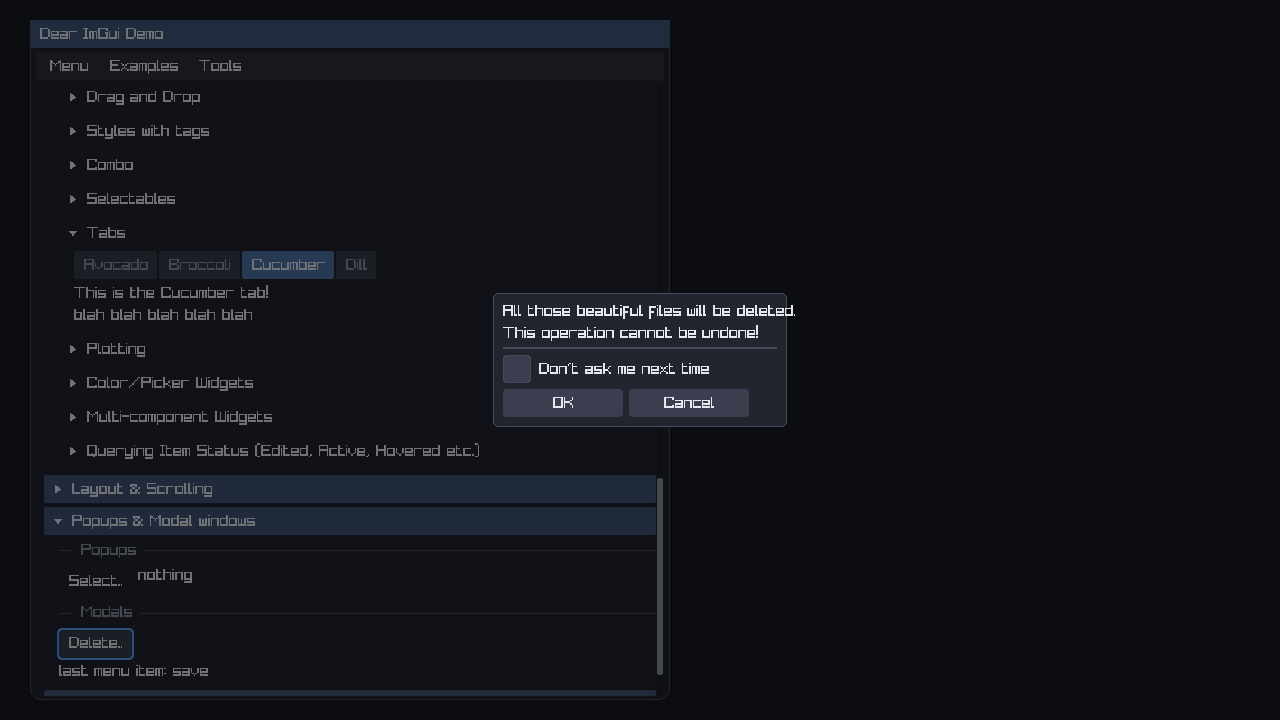
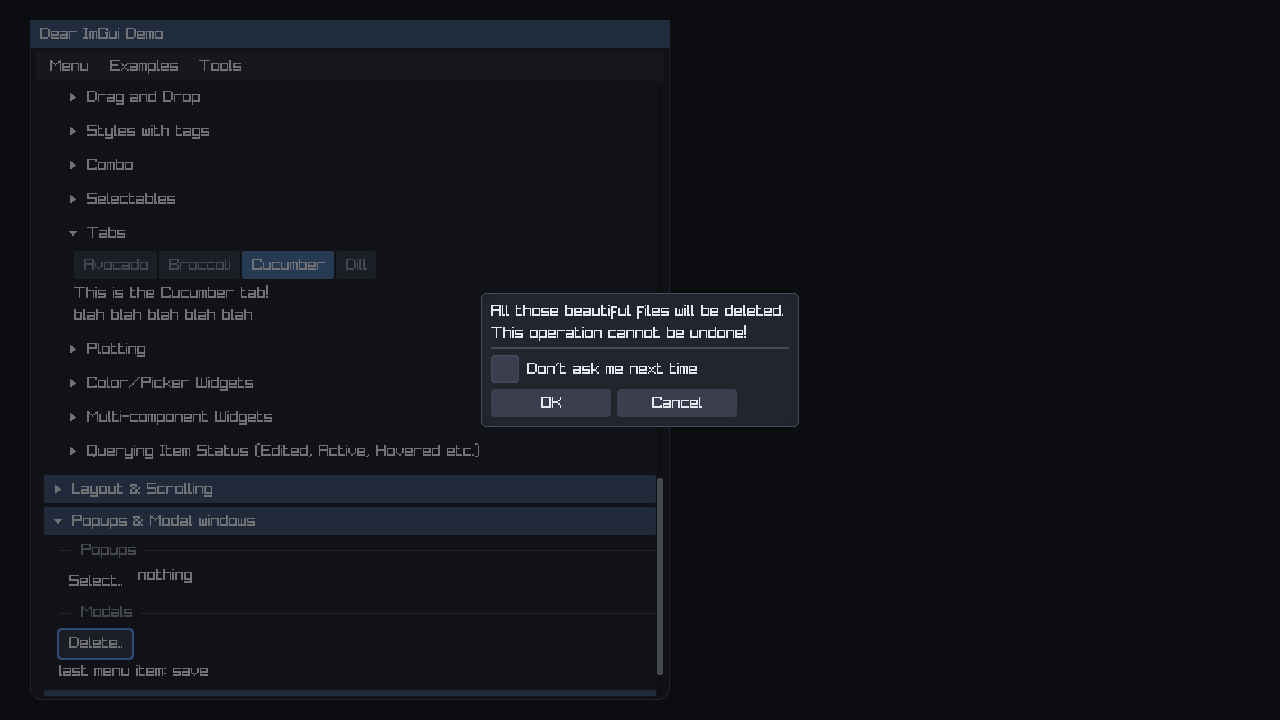
reports view: ratio columns (bar at the left, one size) and numbers with the decimals of their column; ui: wrapped text width
Ratio cells: the bar is at the left and the same size in every row, its number is in a box as wide as the widest number of the
column, aligned to the right, coloured by the verdict, no name written in the bar. Number columns: every number has the decimals
of its column (1.79, 7.10, 118.00) and is aligned to the right. Paragraphs wrap inside a box that takes the width of the view.

ui (found by looking at the picture): the wrap code summed words and spaces measured one by one, which loses the spacing of the
font at every word, so a wrapped line was a few percent narrower than it is drawn and ran over the edge of its container (also
the dialog of the imgui demo; its kept picture is updated). The space is now measured between two letters.
The viewer and the status demos keep pictures of their tables and chart (captures/).

Claude-Session: https://claude.ai/code/session_01VmEee6MKKvbYT6tj2787vE

Changed region(s): [[0.375, 0.3972, 0.625, 0.6111]]

diff --git a/reports/README.md b/reports/README.md
@@ -108,7 +108,7 @@ prints `RESULT<TAB>case<TAB>value` lines (any program) is `reports results --odi
 
 ## The viewer and the demos
 `reports/view` (`reports_view.ViewDraw(&ctx, &view, &report)`) draws a report with `odin_utilities/ui`: a split with the sections on the left (coloured by their status) and the blocks of the chosen section on the right. Tables
-are columns sized to their text whose headings sort them (first click ascending, second descending, third back to the order of the report), ratio columns carry a bar from 0 to 2 and the colour of their verdict, budgets and checks are coloured by status, findings by severity,
+are columns sized to their text whose headings sort them (first click ascending, second descending, third back to the order of the report), ratio columns carry a bar from 0 to 2 (always at the left, the same size in every row) and the number in the colour of its verdict, in a box as wide as the widest number and aligned to the right; the numbers of a column have the same decimals (1.79, 7.10, 118.00) and are aligned to the right, budgets and checks are coloured by status, findings by severity,
 charts are plotted (a log scale is plotted as logarithms), a filter field keeps the rows whose first cell contains a text. The view keeps only what the person chose; the report is the program's, and a report that changes
 between frames is fine. The ui storage needs room for the tables (a cell is two to four elements): the demos use `ui.Storage(6144, 12288, 1024, 65536)`.
 

diff --git a/ui/TODO.md b/ui/TODO.md
@@ -2,6 +2,7 @@
 
 Tick an item when it is done and verified (tests pass, committed).
 
+- [x] Wrapped text: the width of a space is measured between two letters (`textSpaceWidth`): a line that is the sum of its words, measured one by one, came out a few percent narrower than it is drawn (the spacing of the font is lost at every word) and ran over the edge of its container
 - [x] Resizing by the pointer, automatic: `UiSplit` (two sections and the handle, the proportion kept by the split, minimum sizes, misuse stays laid out) and `UiWindowResizable` (edges and corners, keeps its own position and size, stays on the screen, the body grows with it); `Clip.cut`
 - [x] Widget state survives one absent frame: state is dropped after 3 frames without a declaration
 - [x] `UiAnimating(ctx)`: true while any hover / press fade is still moving, so a host can redraw on demand; fades use the frame rate independent `1 - 2^(-rate * dt)`; `UiAnimate(ctx, id, target)` for styles
